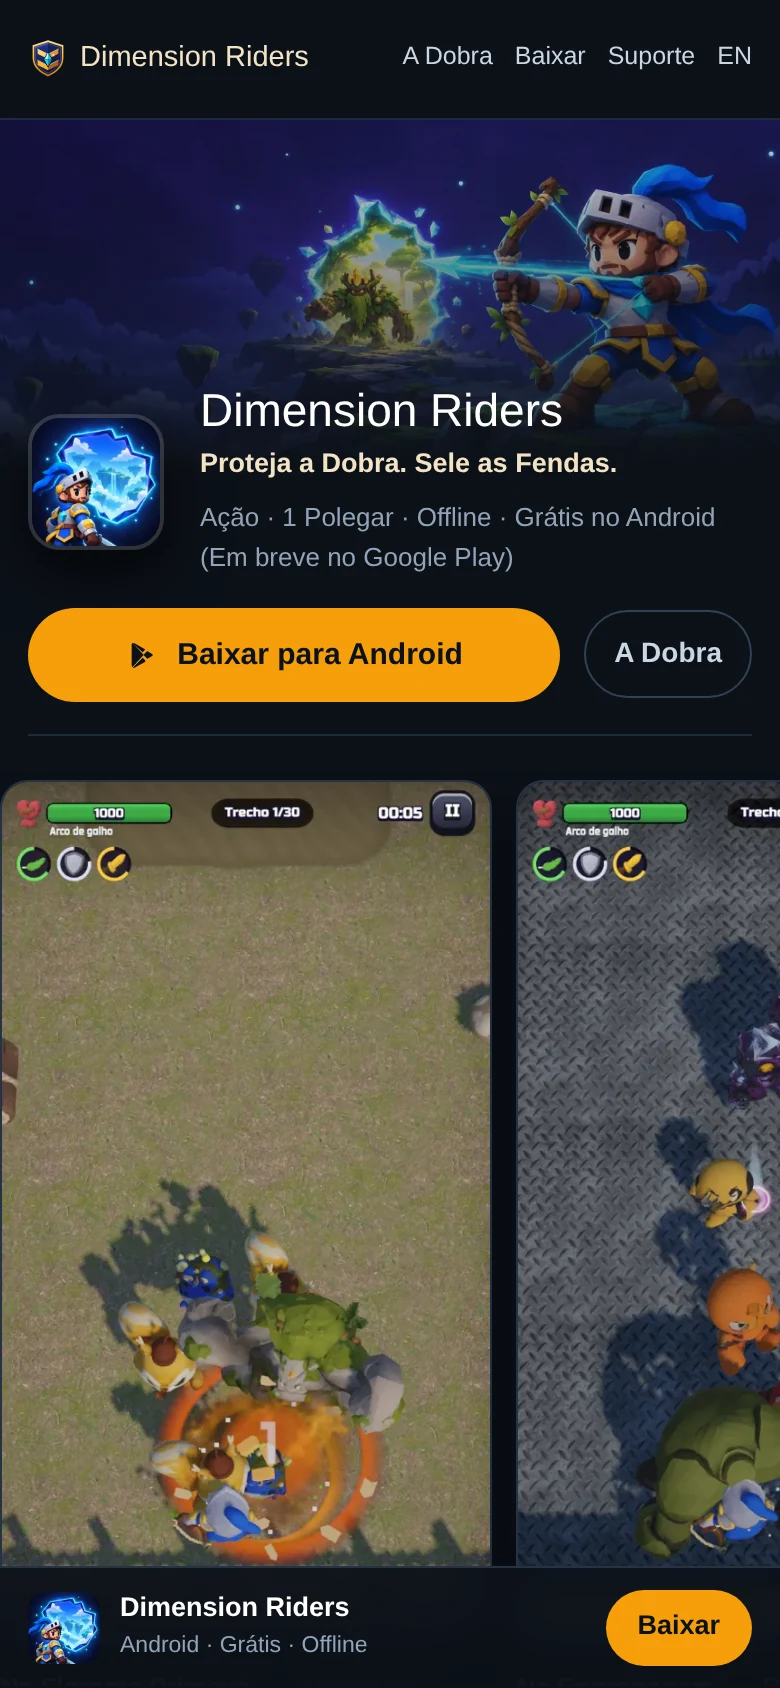
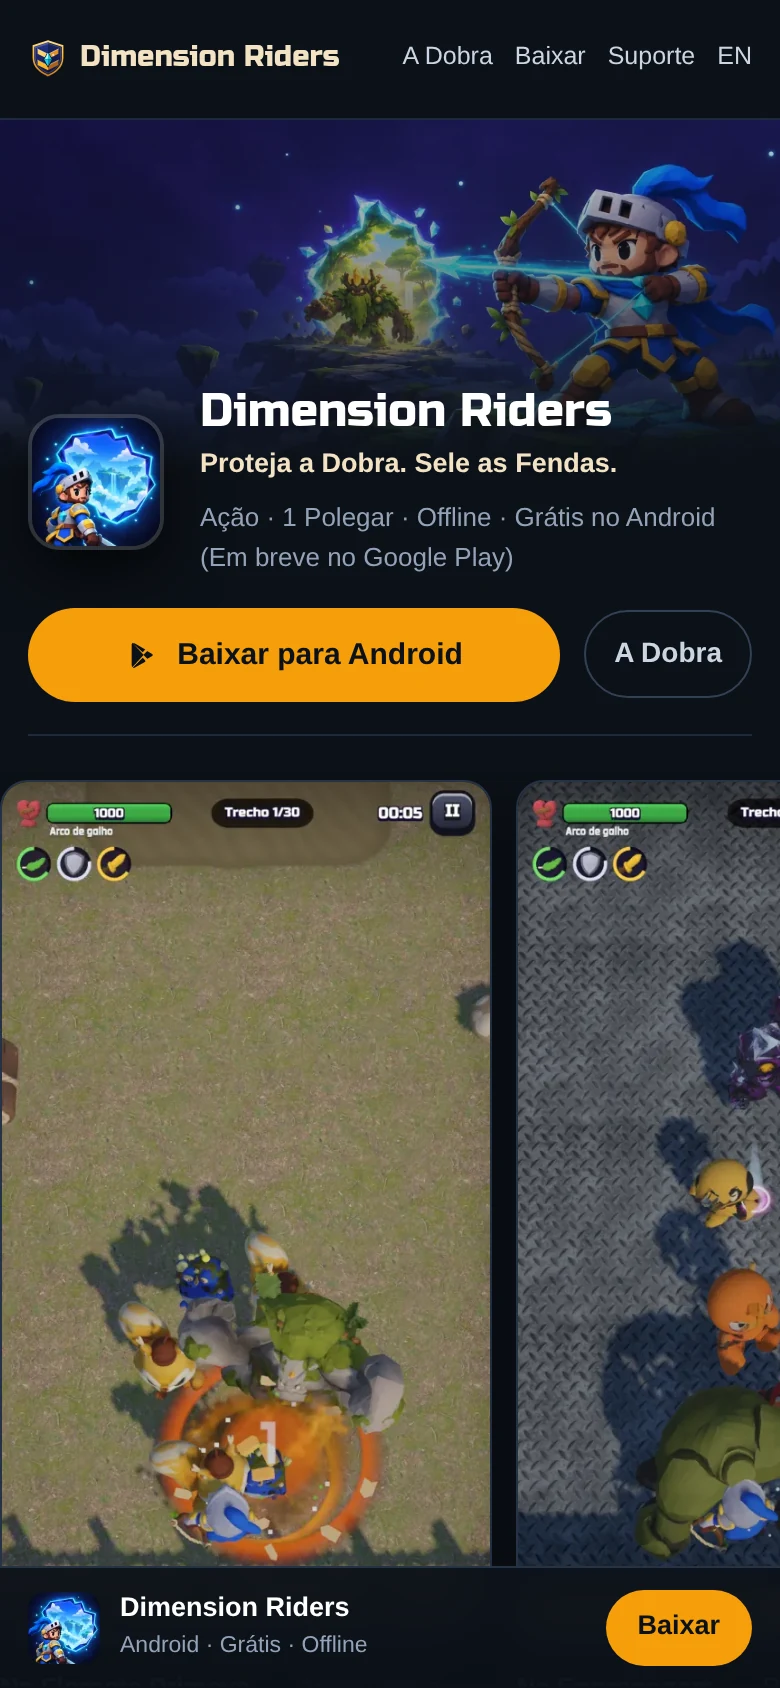
Empacotar fonte Russo One nas propostas e atualizar capturas (#1595)

Changed region(s): [[0.2462, 0.2156, 0.7692, 0.2773], [0.1231, 0.0, 0.4308, 0.0616]]

diff --git a/src/styles/propostas-1595.css b/src/styles/propostas-1595.css
@@ -3,7 +3,7 @@
   font-style: normal;
   font-weight: 400;
   font-display: swap;
-  src: url('/fonts/RussoOne-Regular.woff2') format('woff2');
+  src: url('../fonts/RussoOne-Regular.woff2') format('woff2');
 }
 
 *, *::before, *::after {
